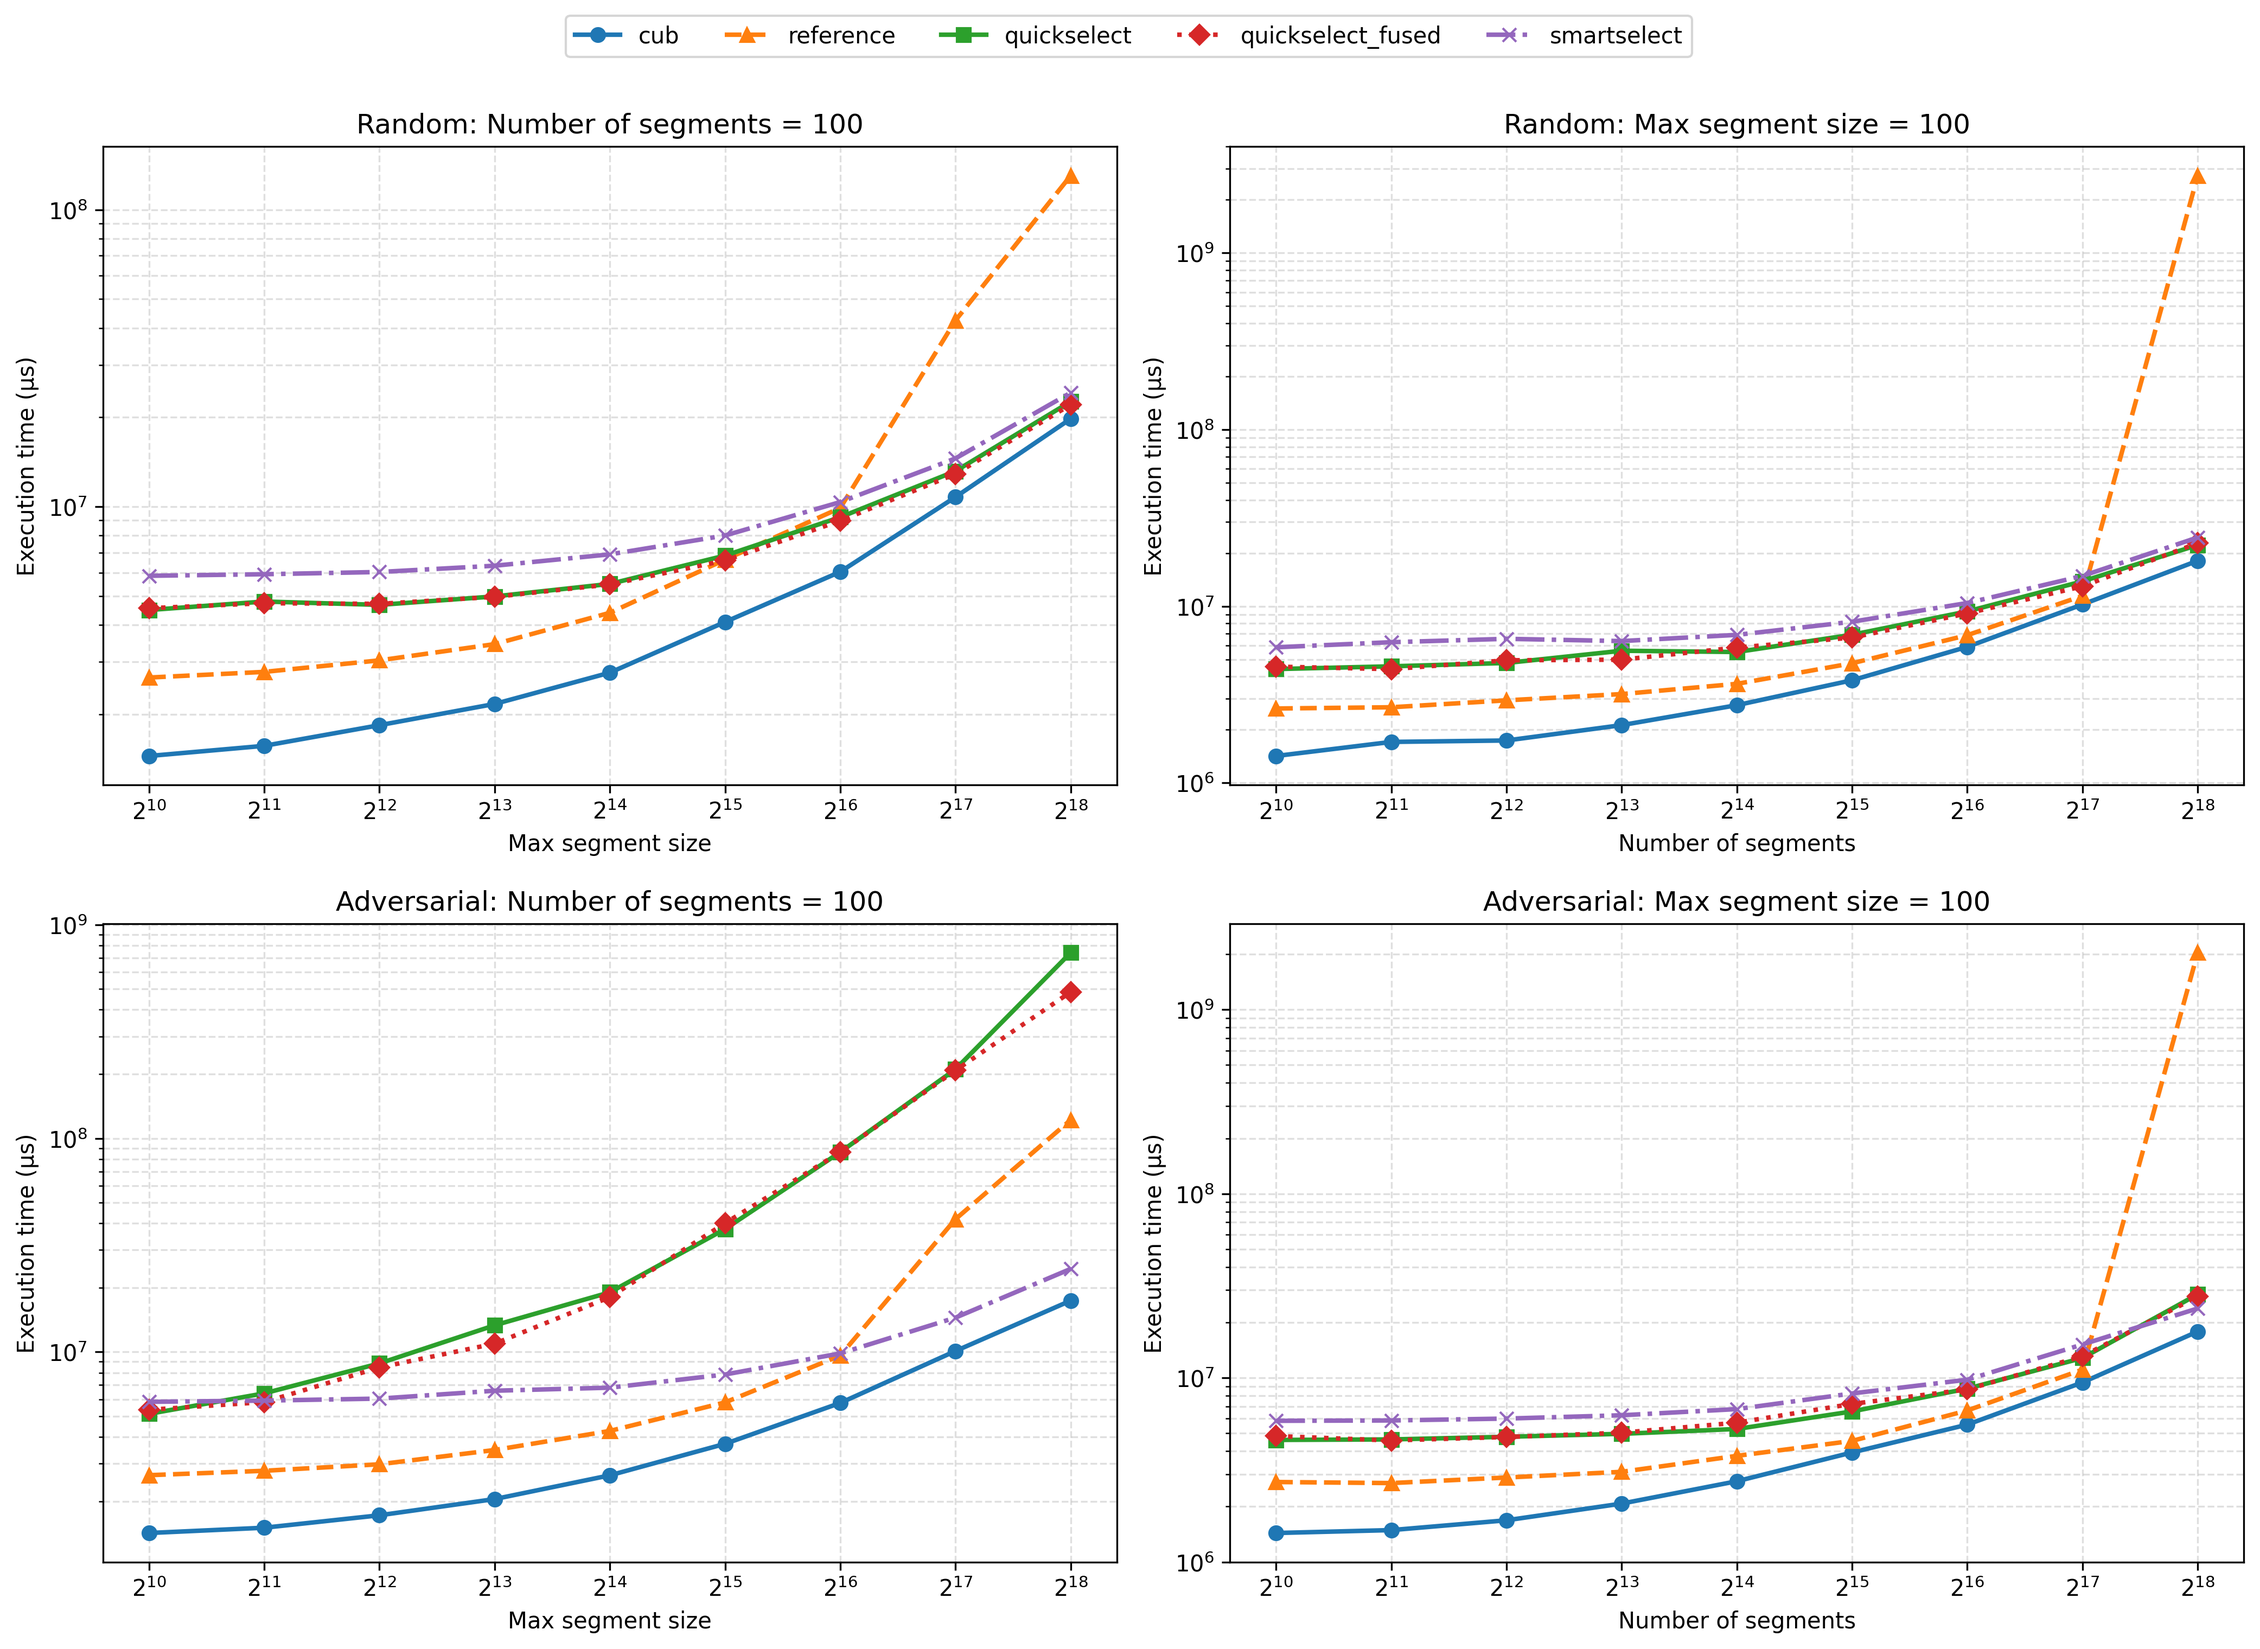
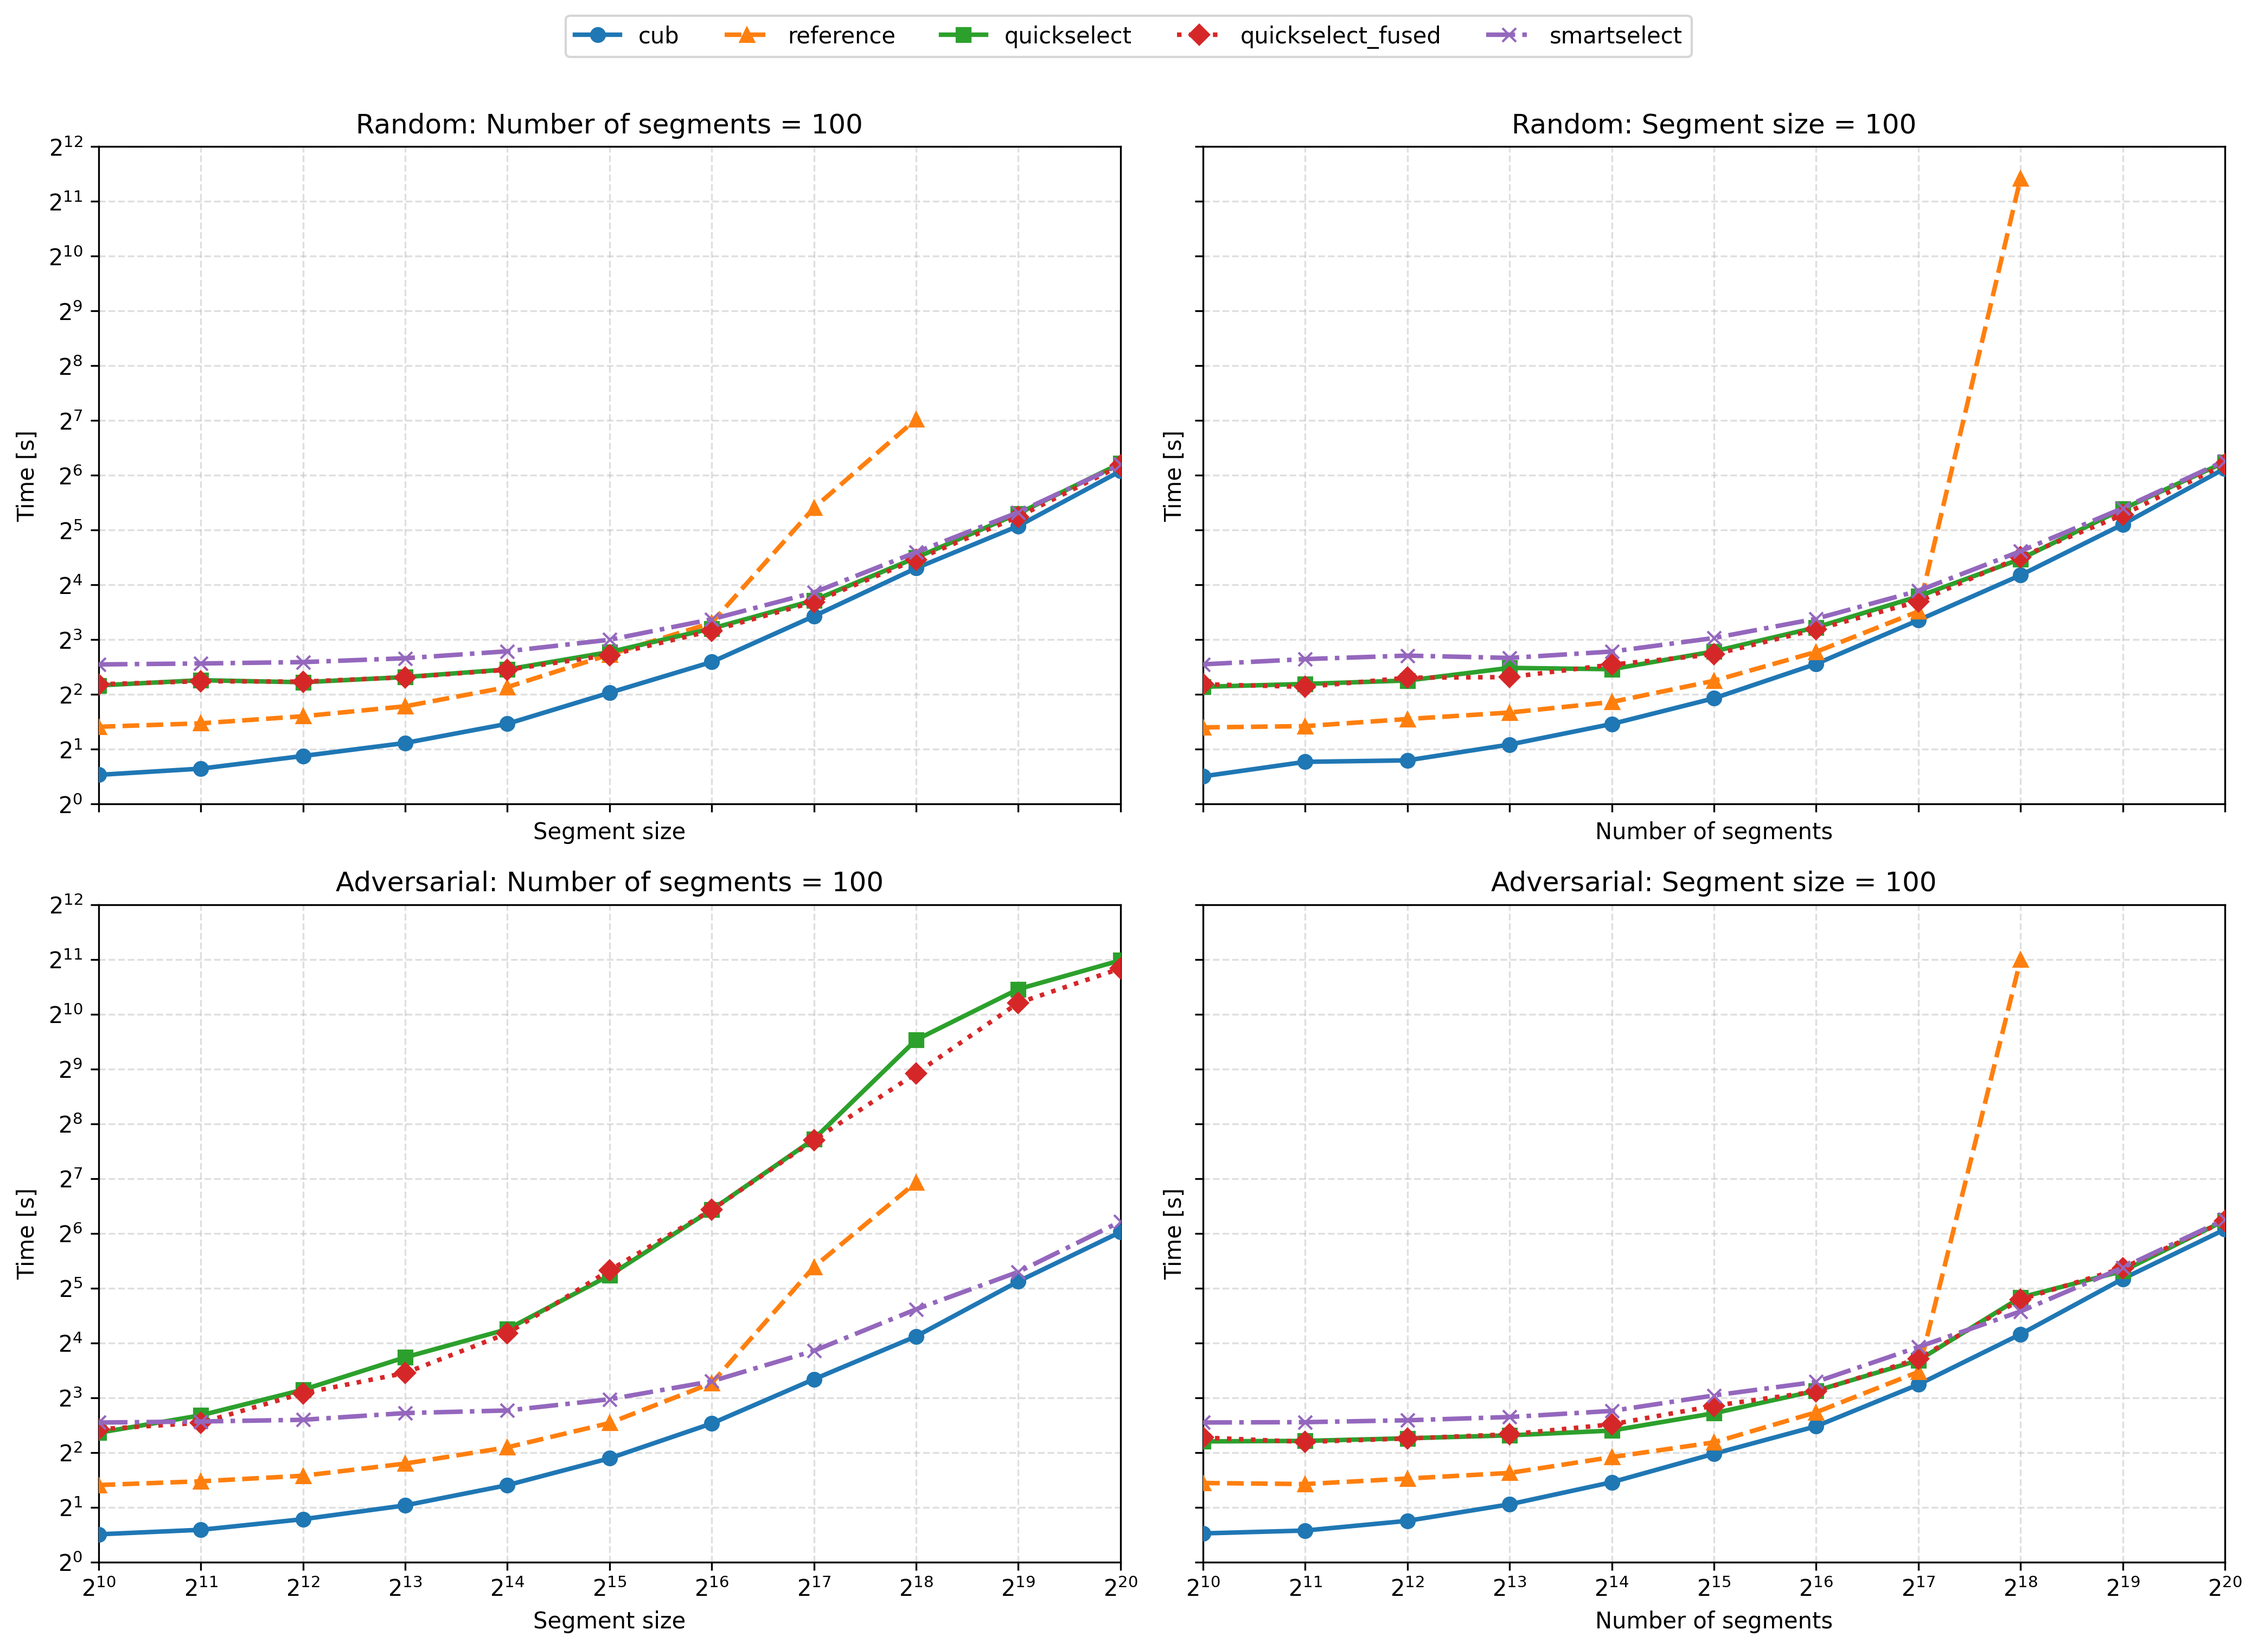
Final dataset

diff --git a/run_plot.py b/run_plot.py
@@ -1,12 +1,16 @@
 import pandas as pd
+import numpy as np
 import matplotlib.pyplot as plt
 
 df = pd.read_csv("benchmarks.csv")
-
 variants = ["cub", "reference", "quickselect", "quickselect_fused", "smartselect"]
-types = ["random", "adversarial"]
 colors = dict(zip(variants, plt.rcParams["axes.prop_cycle"].by_key()["color"]))
-fig, axes = plt.subplots(2, 2, figsize=(14, 10))
+fig, axes = plt.subplots(
+    2, 2,
+    figsize=(14, 10),
+    sharey=True,
+    sharex="col",
+)
 
 line_styles = {
     "cub": "-",
@@ -22,7 +26,6 @@ markers = {
     "quickselect_fused": "D",
     "smartselect": "x",
 }
-
 experiments = [
     {
         "title": "Random: Number of segments = 100",
@@ -54,12 +57,32 @@ experiments = [
     },
 ]
 
+x_limits = {}
+for x in ["shp_max", "m"]:
+    values = df.loc[df["x_var"] == x, x]
+    x_limits[x] = (values.min(), values.max())
+
+times = df["time"] / 1e6
+y_limits = (times.min(), times.max())
+
+def power_of_two_ticks(limits):
+    lo, hi = limits
+    min = int(np.floor(np.log2(lo)))
+    max = int(np.ceil(np.log2(hi)))
+    return [2**i for i in range(min, max + 1)]
+
+x_ticks = {
+    x: power_of_two_ticks(limits) for x, limits in x_limits.items()
+}
+y_ticks = power_of_two_ticks(y_limits)
+
 for exp in experiments:
     ax = exp["ax"]
     subset = df[
         (df["type"] == exp["type"]) &
         (df["x_var"] == exp["x"])
     ]
+
     for variant in variants:
         points = subset[subset["variant"] == variant].sort_values(exp["x"])
         if points.empty:
@@ -67,11 +90,11 @@ for exp in experiments:
 
         ax.plot(
             points[exp["x"]],
-            points["time"],
+            points["time"] / 1e6,
             label=variant,
             color=colors[variant],
-            linestyle=line_styles.get(variant, "-"),
-            marker=markers.get(variant, "o"),
+            linestyle=line_styles[variant],
+            marker=markers[variant],
             linewidth=2,
             markersize=6,
             zorder=3,
@@ -80,11 +103,15 @@ for exp in experiments:
     ax.set(
         title=exp["title"],
         xlabel=exp["xlabel"],
-        ylabel="Execution time (µs)",
+        ylabel="Time [s]",
     )
-    ax.set_yscale("log", base=10)
-    ax.set_xscale("log", base=2)
 
+    ax.set_xscale("log", base=2)
+    ax.set_yscale("log", base=2)
+    ax.set_xlim(x_limits[exp["x"]])
+    ax.set_ylim(y_limits)
+    ax.set_xticks(x_ticks[exp["x"]])
+    ax.set_yticks(y_ticks)
     ax.grid(True, which="both", linestyle="--", alpha=0.4)
 
 handles, labels = axes[0, 0].get_legend_handles_labels()
@@ -96,6 +123,5 @@ fig.legend(
     ncol=len(variants),
 )
 fig.tight_layout(rect=[0, 0, 1, 0.97])
-
 plt.savefig("benchmark_results.png", dpi=300, bbox_inches="tight")
 plt.show()
